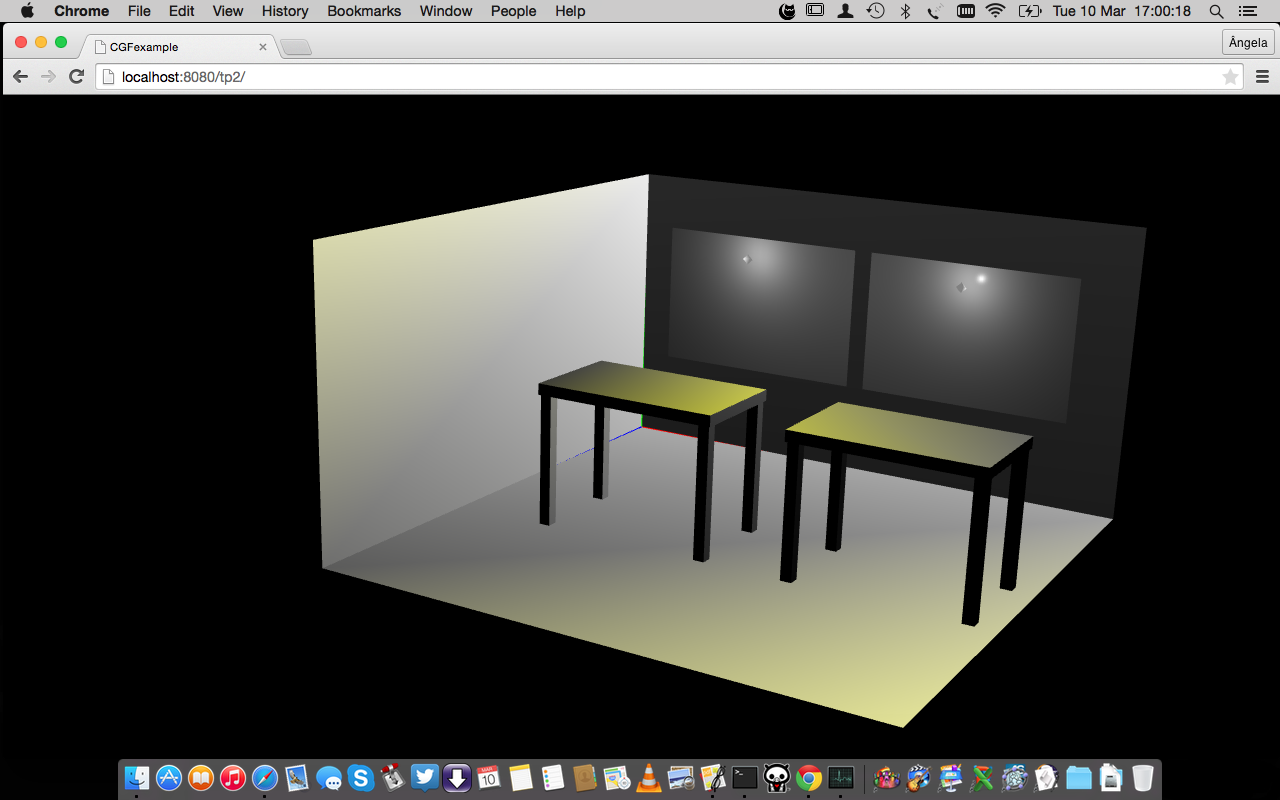
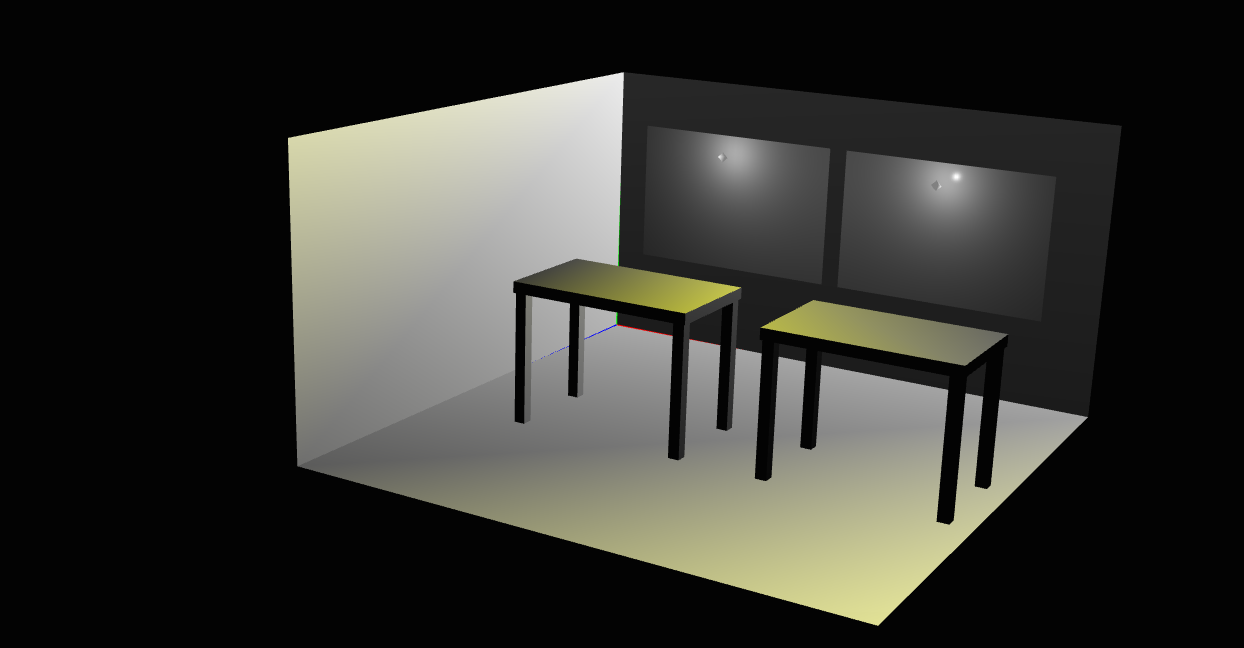
mudei as luzes e as paredes ficaram melhores

diff --git a/tp2/LightingScene.js b/tp2/LightingScene.js
@@ -20,7 +20,7 @@ LightingScene.prototype.init = function(application) {
 
 	this.initLights();
 
-	this.gl.clearColor(1.0, 1.0, 1.0, 1.0);
+    this.gl.clearColor(0.0, 0.0, 0.0, 1.0);
 	this.gl.clearDepth(100.0);
 	this.gl.enable(this.gl.DEPTH_TEST);
 	this.gl.enable(this.gl.CULL_FACE);
@@ -31,7 +31,7 @@ LightingScene.prototype.init = function(application) {
 	// Scene elements
 	this.table = new MyTable(this);
 	this.chair = new MyChair(this);
-	this.wall = new Plane(this);
+	this.wall = new Plane(this, 10);
 	this.boardA = new Plane(this, BOARD_A_DIVISIONS);
 	this.boardB = new Plane(this, BOARD_B_DIVISIONS);
 
@@ -42,11 +42,11 @@ LightingScene.prototype.init = function(application) {
 	this.materialA.setAmbient(0.3,0.3,0.3,1);
 	this.materialA.setDiffuse(0.6,0.6,0.6,1);
 	this.materialA.setSpecular(0.2,0.2,0.2,1);
-	this.materialA.setShininess(120);
+	this.materialA.setShininess(10);
 
 	this.materialB = new CGFappearance(this);
-	this.materialB.setAmbient(1.0, 1.0, 1.0, 1);
-	this.materialB.setDiffuse(1.0, 1.0, 1.0, 1);
+	this.materialB.setAmbient(1.0, 1.0, 1.0, 0.1);
+	this.materialB.setDiffuse(1.0, 1.0, 1.0, 0.1);
 	this.materialB.setSpecular(1.0, 1.0, 1.0, 1);	
 	this.materialB.setShininess(120);
 	
@@ -69,39 +69,46 @@ LightingScene.prototype.initCameras = function() {
 };
 
 LightingScene.prototype.initLights = function() {
-	this.setGlobalAmbientLight(0.0, 0.0, 0.0, 1.0);
+	this.setGlobalAmbientLight(0.2, 0.2, 0.2, 1.0);
 
 	this.shader.bind();
 	
 	// Positions for four lights
-	this.lights[0].setPosition(4.0, 6.0, 1.0, 1.0);
-	this.lights[1].setPosition(10.5, 6.0, 1.0, 1.0);
-	this.lights[2].setPosition(10.5, 6.0, 5.0, 1.0);
-	this.lights[3].setPosition(4.0, 6.0, 5.0, 1.0);
+	this.lights[0].setPosition(4.5, 6.0, 4.0, 1.0);
+	this.lights[1].setPosition(12, 6.0, 4.0, 1.0);
+	this.lights[2].setPosition(12, 6.0, 9.0, 1.0);
+	this.lights[3].setPosition(4.5, 6.0, 9.0, 1.0);
 
-	this.lights[0].setAmbient(0, 0, 0, 1);
-	this.lights[0].setDiffuse(1.0, 1.0, 1.0, 1.0);
-	this.lights[0].setSpecular(1.0, 1.0, 1.0, 1.0);
-	this.lights[0].enable();
+	this.lights[0].setAmbient(0.0, 0.0, 0.0, 1.0);
+	this.lights[0].setDiffuse(1.0, 1.0, 1.0, 0.5);
+	this.lights[0].setSpecular(1.0, 1.0, 1.0, 0.5);
+	this.lights[0].setConstantAttenuation(0.0);
+	this.lights[0].setLinearAttenuation(0.8);
+	this.lights[0].setQuadraticAttenuation(0.0);
+	this.lights[0].enable()
 
-	this.lights[1].setAmbient(0, 0, 0, 1);
-	this.lights[1].setDiffuse(1.0, 1.0, 1.0, 1.0);
+	this.lights[1].setAmbient(0.0, 0.0, 0.0, 1.0);
+	this.lights[1].setDiffuse(1.0, 1.0, 1.0, 0.5);
+	this.lights[1].setSpecular(1.0, 1.0, 1.0, 0.5);
+	this.lights[1].setConstantAttenuation(0.0);
+	this.lights[1].setLinearAttenuation(0.8);
+	this.lights[1].setQuadraticAttenuation(0.0);
 	this.lights[1].enable();
 
-	this.lights[2].setAmbient(0, 0, 0, 1);
-	this.lights[2].setDiffuse(1.0, 1.0, 1.0, 1.0);
-	this.lights[2].setSpecular(1.0, 1.0, 1.0, 1.0);
-	this.lights[2].setConstantAttenuation(1.0);
-	this.lights[2].setLinearAttenuation(1.0);
-	this.lights[2].setQuadraticAttenuation(1.0);
+	this.lights[2].setAmbient(0.0, 0.0, 0.0, 1.0);
+	this.lights[2].setDiffuse(1.0, 1.0, 1.0, 0.5);
+	this.lights[2].setSpecular(1.0, 1.0, 1.0, 0.5);
+	this.lights[2].setConstantAttenuation(0.0);
+	this.lights[2].setLinearAttenuation(0.8);
+	this.lights[2].setQuadraticAttenuation(0.0);
 	this.lights[2].enable();
 
-	this.lights[3].setAmbient(0, 0, 0, 1);
-	this.lights[3].setDiffuse(1.0, 1.0, 1.0, 1.0);
-	this.lights[3].setSpecular(1.0, 1.0, 1.0, 1.0);
-	this.lights[3].setConstantAttenuation(1.0);
-	this.lights[3].setLinearAttenuation(1.0);
-	this.lights[3].setQuadraticAttenuation(1.0);
+	this.lights[3].setAmbient(0.0, 0.0, 0.0, 1.0);
+	this.lights[3].setDiffuse(1.0, 1.0, 1.0, 0.5);
+	this.lights[3].setSpecular(1.0, 1.0, 1.0, 0.5);
+	this.lights[3].setConstantAttenuation(0.0);
+	this.lights[3].setLinearAttenuation(0.8);
+	this.lights[3].setQuadraticAttenuation(0.0);
 	this.lights[3].enable();
 
 	this.shader.unbind();

diff --git a/tp2/MyUnitCubeQuad.js b/tp2/MyUnitCubeQuad.js
@@ -7,7 +7,7 @@
 //MyUnitCubeQuad e uma subclasse de CGFobject
 function MyUnitCubeQuad(scene) {
 	CGFobject.call(this,scene);
-	this.quad = new Plane(this.scene, 4);
+	this.quad = new Plane(this.scene, 10);
 //	this.quad = new MyQuad(this.scene);
 	this.quad.initBuffers();
 
